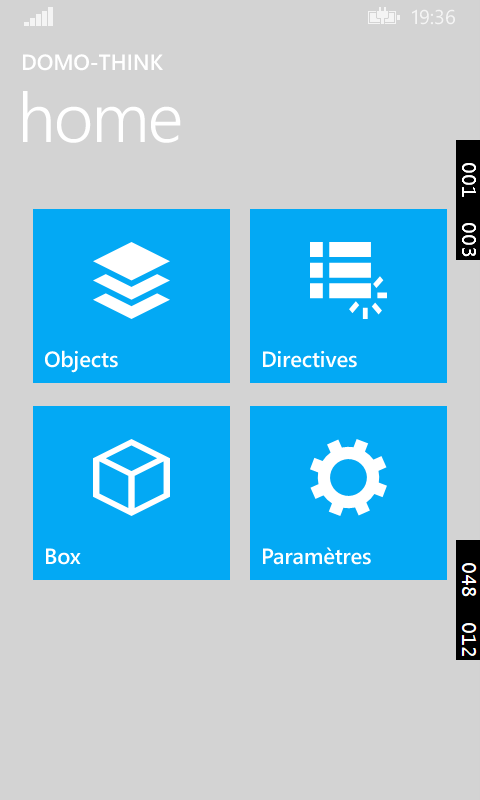
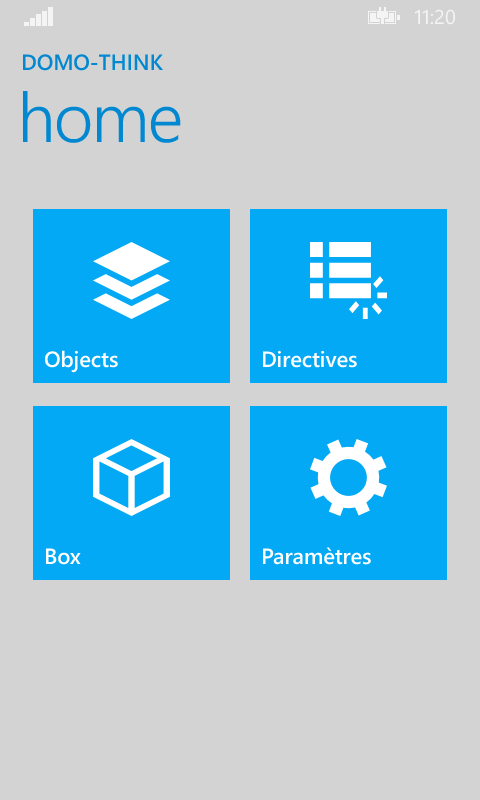
Résoluation d'un bug de navigation entre les pages. Ajout de nouvelles vue. Ajout de nouvelles captures d'écrans.

diff --git a/DomoThink-App-WP/DomoThink/Pages/Parameters.xaml b/DomoThink-App-WP/DomoThink/Pages/Parameters.xaml
@@ -1,19 +1,13 @@
 <Page
-    x:Class="DomoThink.Pages.Objects.Objects"
+    x:Class="DomoThink.Pages.Parameters"
     xmlns="http://schemas.microsoft.com/winfx/2006/xaml/presentation"
     xmlns:x="http://schemas.microsoft.com/winfx/2006/xaml"
-    xmlns:local="using:DomoThink.Pages.Objects"
+    xmlns:local="using:DomoThink.Pages"
     xmlns:d="http://schemas.microsoft.com/expression/blend/2008"
     xmlns:mc="http://schemas.openxmlformats.org/markup-compatibility/2006"
-    xmlns:viewModels="using:DomoThink.ViewModels"
     mc:Ignorable="d"
     Background="{StaticResource DBackgroundColor}">
 
-    <!-- Page data context -->
-    <Page.DataContext>
-        <viewModels:ObjectsViewModel />
-    </Page.DataContext>
-    
     <Grid x:Name="LayoutRoot">
 
         <Grid.ChildrenTransitions>
@@ -30,22 +24,12 @@
         <!-- Title panel -->
         <StackPanel Grid.Row="0" Margin="19,0,0,0">
             <TextBlock Text="DOMO-THINK" Style="{StaticResource TitleTextBlockStyle}" Foreground="{StaticResource DPrimaryColorDark}" Margin="0,12,0,0"/>
-            <TextBlock Text="objects" Margin="0,-6.5,0,26.5" Style="{ThemeResource HeaderTextBlockStyle}" Foreground="{StaticResource DPrimaryColorDark}" CharacterSpacing="{ThemeResource PivotHeaderItemCharacterSpacing}"/>
+            <TextBlock Text="parameters" Margin="0,-6.5,0,26.5" Style="{ThemeResource HeaderTextBlockStyle}" Foreground="{StaticResource DPrimaryColorDark}" CharacterSpacing="{ThemeResource PivotHeaderItemCharacterSpacing}"/>
         </StackPanel>
 
         <!-- Main grid -->
         <Grid Grid.Row="1" x:Name="ContentRoot" Margin="19,9.5,19,0">
-            
+
         </Grid>
     </Grid>
-
-    <!-- Bottom app bar -->
-    <Page.BottomAppBar>
-        <CommandBar x:Name="LOGIN_APP_BAR" IsSticky="True" 
-                    Background="{StaticResource DPrimaryColorDark}" >
-            <CommandBar.PrimaryCommands>
-                <AppBarButton x:Name="ADD_BUTTON" Icon="Add" IsCompact="False" Label="Add" Command="{Binding AddCommand}" />
-            </CommandBar.PrimaryCommands>
-        </CommandBar>
-    </Page.BottomAppBar>
 </Page>

diff --git a/DomoThink-App-WP/DomoThink/Pages/Directives/Directives.xaml b/DomoThink-App-WP/DomoThink/Pages/Directives/Directives.xaml
@@ -5,8 +5,14 @@
     xmlns:local="using:DomoThink.Pages.Directives"
     xmlns:d="http://schemas.microsoft.com/expression/blend/2008"
     xmlns:mc="http://schemas.openxmlformats.org/markup-compatibility/2006"
+    xmlns:viewModels="using:DomoThink.ViewModels"
     mc:Ignorable="d"
     Background="{StaticResource DBackgroundColor}">
+    
+    <!-- Page data context -->
+    <Page.DataContext>
+        <viewModels:DirectivesViewModel />
+    </Page.DataContext>
     
     <Grid x:Name="LayoutRoot">
 

diff --git a/DomoThink-App-WP/DomoThink/Pages/Home.xaml.cs b/DomoThink-App-WP/DomoThink/Pages/Home.xaml.cs
@@ -25,6 +25,8 @@ namespace DomoThink.Pages
     /// </summary>
     public sealed partial class Home : Page
     {
+        private static Object syncRoot = new Object();
+
         public Home()
         {
             this.InitializeComponent();
@@ -41,6 +43,14 @@ namespace DomoThink.Pages
             HardwareButtons.BackPressed += HardwareButtons_BackPressed;
         }
 
+        protected override void OnNavigatedFrom(NavigationEventArgs e)
+        {
+            this.DataContext = null;
+            HardwareButtons.BackPressed -= HardwareButtons_BackPressed;
+
+            base.OnNavigatedFrom(e);
+        }
+
         private async void HardwareButtons_BackPressed(object sender, BackPressedEventArgs e)
         {
             e.Handled = true;
@@ -49,15 +59,21 @@ namespace DomoThink.Pages
             {
                 Commands =
                 {
-                    new UICommand() { Label = "yes", Id = 0 },
-                    new UICommand() { Label = "no", Id = 1 }
+                    new UICommand("yes", new UICommandInvokedHandler(this.LeaveCommand)),
+                    new UICommand("no", new UICommandInvokedHandler(this.LeaveCommand))
                 },
             };
 
-            IUICommand _result = await msgbox.ShowAsync();
+            await msgbox.ShowAsync();
+        }
 
-            if ((Int32)_result.Id == 0)
-                Application.Current.Exit();
+        private void LeaveCommand(IUICommand command)
+        {
+            switch (command.Label)
+            {
+                case "yes": Application.Current.Exit(); break;
+                case "no": break;
+            }
         }
     }
 }

diff --git a/DomoThink-App-WP/DomoThink/ViewModels/ObjectsViewModel.cs b/DomoThink-App-WP/DomoThink/ViewModels/ObjectsViewModel.cs
@@ -1,0 +1,70 @@
+using DomoThink.MVVM;
+using System;
+using System.Collections.Generic;
+using System.Linq;
+using System.Text;
+using System.Threading.Tasks;
+
+/*--------------------------------------------------------
+ * ObjectsViewModel.cs
+ * 
+ * Version: 1.0
+ * Author: Filipe
+ * Created: 27/10/2015 10:56:00
+ * 
+ * Notes:
+ * -------------------------------------------------------*/
+
+namespace DomoThink.ViewModels
+{
+    public class ObjectsViewModel : ViewModelBase
+    {
+        #region CONSTANTS
+
+
+
+        #endregion
+
+        #region ENUMS
+
+
+
+        #endregion
+
+        #region FIELDS
+
+
+
+        #endregion
+
+        #region PROPERTIES
+
+
+
+        #endregion
+
+        #region CONSTRUCTORS
+
+
+
+        #endregion
+
+        #region METHODS
+
+
+
+        #endregion
+
+        #region STATICS METHODS
+
+
+
+        #endregion
+
+        #region OPERATORS
+
+
+
+        #endregion
+    }
+}

diff --git a/DomoThink-App-WP/DomoThink/ViewModels/DirectivesViewModel.cs b/DomoThink-App-WP/DomoThink/ViewModels/DirectivesViewModel.cs
@@ -1,0 +1,46 @@
+using DomoThink.MVVM;
+using System;
+using System.Collections.Generic;
+using System.Linq;
+using System.Text;
+using System.Threading.Tasks;
+
+/*--------------------------------------------------------
+ * DirectivesViewModel.cs
+ * 
+ * Version: 1.0
+ * Author: Filipe
+ * Created: 27/10/2015 10:56:13
+ * 
+ * Notes:
+ * -------------------------------------------------------*/
+
+namespace DomoThink.ViewModels
+{
+    public class DirectivesViewModel : ViewModelBase
+    {
+        #region FIELDS
+
+
+
+        #endregion
+
+        #region PROPERTIES
+
+
+
+        #endregion
+
+        #region CONSTRUCTORS
+
+
+
+        #endregion
+
+        #region METHODS
+
+
+
+        #endregion
+    }
+}

diff --git a/DomoThink-App-WP/DomoThink/Pages/Parameters.xaml.cs b/DomoThink-App-WP/DomoThink/Pages/Parameters.xaml.cs
@@ -16,14 +16,14 @@ using Windows.UI.Xaml.Navigation;
 
 // Pour en savoir plus sur le modèle d’élément Page vierge, consultez la page http://go.microsoft.com/fwlink/?LinkID=390556
 
-namespace DomoThink.Pages.Box
+namespace DomoThink.Pages
 {
     /// <summary>
     /// Une page vide peut être utilisée seule ou constituer une page de destination au sein d'un frame.
     /// </summary>
-    public sealed partial class Box : Page
+    public sealed partial class Parameters : Page
     {
-        public Box()
+        public Parameters()
         {
             this.InitializeComponent();
         }

diff --git a/DomoThink-App-WP/DomoThink/ViewModels/HomeViewModel.cs b/DomoThink-App-WP/DomoThink/ViewModels/HomeViewModel.cs
@@ -106,7 +106,7 @@ namespace DomoThink.ViewModels
         /// <param name="param"></param>
         private void ParametersCommandAction(Object param)
         {
-            //this.navigation.Navigate(typeof(Pages));
+            this.navigation.Navigate(typeof(Pages.Parameters));
         }
 
         #endregion

diff --git a/DomoThink-App-WP/DomoThink/Pages/Directives/Directives.xaml.cs b/DomoThink-App-WP/DomoThink/Pages/Directives/Directives.xaml.cs
@@ -35,6 +35,7 @@ namespace DomoThink.Pages.Directives
 
         protected override void OnNavigatedFrom(NavigationEventArgs e)
         {
+            HardwareButtons.BackPressed -= HardwareButtons_BackPressed;
         }
 
         private void HardwareButtons_BackPressed(Object sender, BackPressedEventArgs e)

diff --git a/DomoThink-App-WP/DomoThink/Pages/Objects/Objects.xaml.cs b/DomoThink-App-WP/DomoThink/Pages/Objects/Objects.xaml.cs
@@ -37,6 +37,7 @@ namespace DomoThink.Pages.Objects
 
         protected override void OnNavigatedFrom(NavigationEventArgs e)
         {
+            HardwareButtons.BackPressed -= HardwareButtons_BackPressed;
         }
 
         private void HardwareButtons_BackPressed(Object sender, BackPressedEventArgs e)
